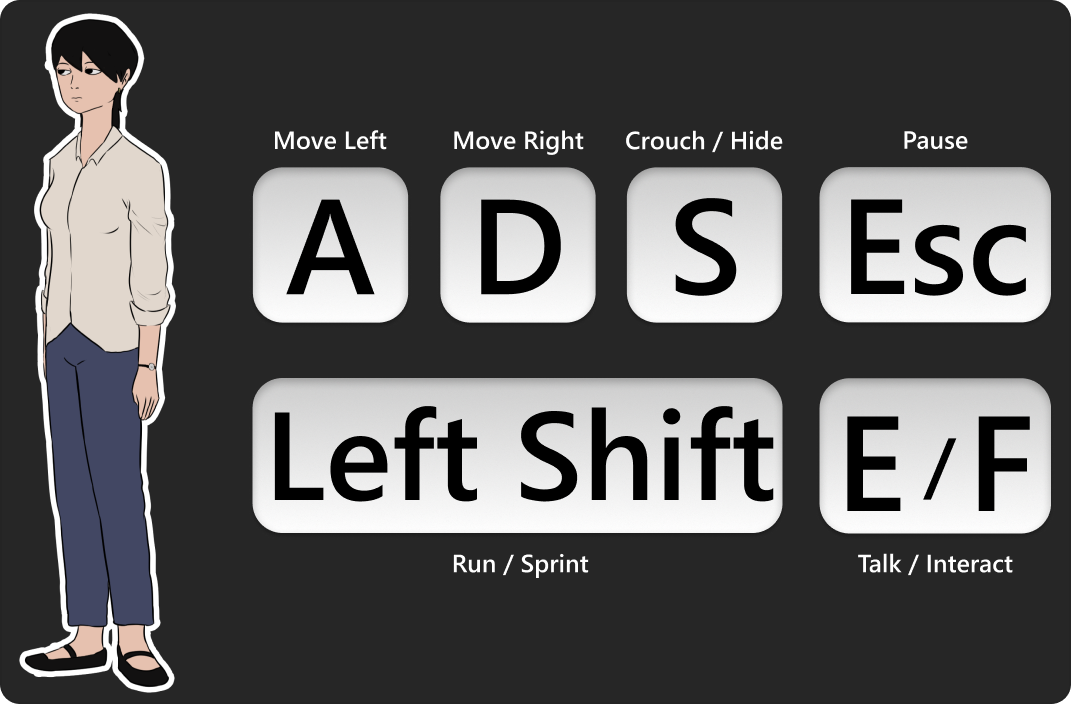
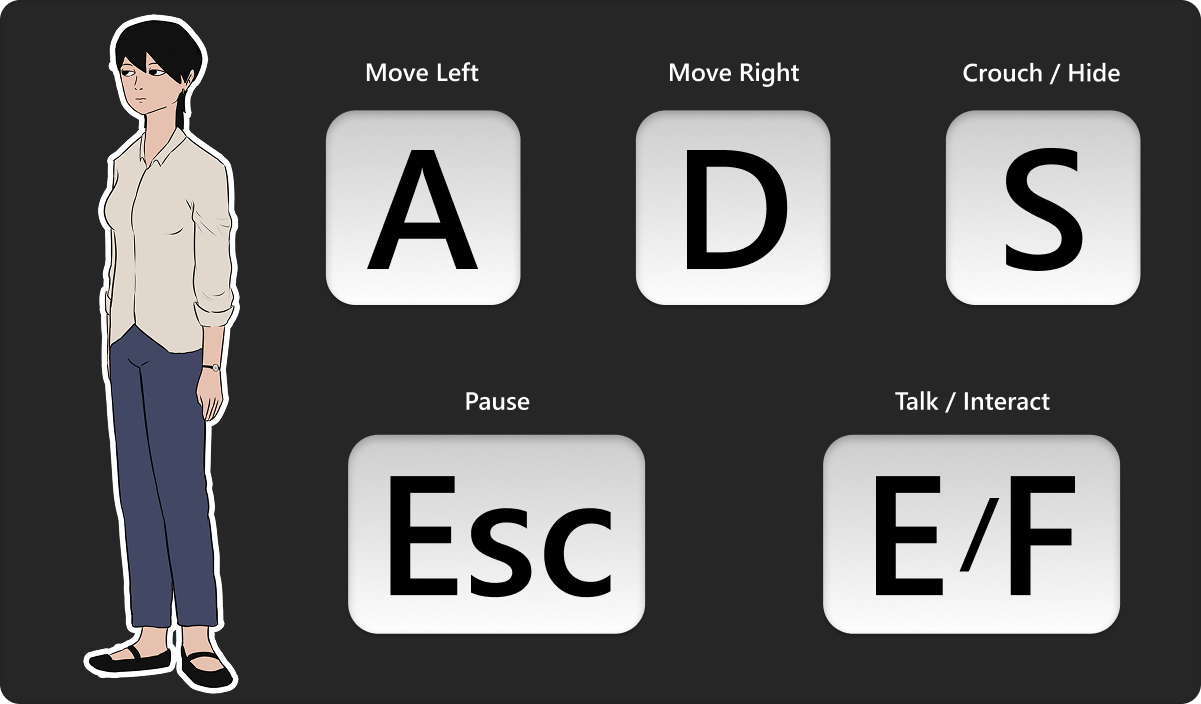
Controls Panel Fixed

diff --git a/Hushed/Assets/Scripts/UI Scripts/SlidePanel.cs b/Hushed/Assets/Scripts/UI Scripts/SlidePanel.cs
@@ -1,0 +1,67 @@
+using UnityEngine;
+using DG.Tweening;
+
+public class SlidePanel : MonoBehaviour
+{
+    [Header("Main Panel Settings")]
+    public CanvasGroup panel;          // The panel to open/close
+    public RectTransform panelRect;    // The panel's RectTransform
+    public float slideDistance = 30f;  // How far it slides
+    public float animationDuration = 0.2f;
+
+    [Header("Optional Panel to Disable")]
+    public GameObject panelToDisable;  // Another panel to disable when opening this one
+
+    private bool isOpen = false;
+    private Vector2 originalPosition;
+
+    void Start()
+    {
+        // Save the starting position of the panel
+        originalPosition = panelRect.anchoredPosition;
+
+        // Start hidden
+        panel.alpha = 0f;
+        panel.interactable = false;
+        panel.blocksRaycasts = false;
+        panelRect.anchoredPosition = originalPosition - new Vector2(0, slideDistance);
+    }
+
+    public void TogglePanel()
+    {
+        if (isOpen)
+            ClosePanel();
+        else
+            OpenPanel();
+    }
+
+    public void OpenPanel()
+    {
+        isOpen = true;
+        panel.DOKill(); // stop any ongoing tweens
+
+        // Disable another panel if assigned
+        if (panelToDisable != null)
+            panelToDisable.SetActive(false);
+
+        panel.interactable = true;
+        panel.blocksRaycasts = true;
+
+        // Slide up + fade in
+        panelRect.DOAnchorPos(originalPosition, animationDuration).SetEase(Ease.OutQuad);
+        panel.DOFade(1f, animationDuration);
+    }
+
+    public void ClosePanel()
+    {
+        isOpen = false;
+        panel.DOKill();
+
+        panel.interactable = false;
+        panel.blocksRaycasts = false;
+
+        // Slide down + fade out
+        panelRect.DOAnchorPos(originalPosition - new Vector2(0, slideDistance), animationDuration).SetEase(Ease.InQuad);
+        panel.DOFade(0f, animationDuration);
+    }
+}

diff --git a/Hushed/Assets/Scripts/UI Scripts/BackButtonEnable.cs b/Hushed/Assets/Scripts/UI Scripts/BackButtonEnable.cs
@@ -1,0 +1,18 @@
+using System.Collections;
+using System.Collections.Generic;
+using UnityEngine;
+
+public class BackButtonEnable : MonoBehaviour
+{
+    public GameObject panelToDisable;
+    public GameObject panelToEnable;
+
+    public void Switch()
+    {
+        if (panelToDisable != null)
+            panelToDisable.SetActive(false);
+
+        if (panelToEnable != null)
+            panelToEnable.SetActive(true);
+    }
+}

diff --git a/Hushed/Assets/Scripts/UI Scripts/PanelManager.cs b/Hushed/Assets/Scripts/UI Scripts/PanelManager.cs
@@ -18,8 +18,8 @@ public class PanelManager : MonoBehaviour
     public ButtonGroupManager buttonGroupManager;
 
     [Header("Animation Settings")]
-    public float slideDistance = 300f;
-    public float animationDuration = 0.3f;
+    public float slideDistance = 30f;
+    public float animationDuration = 0.2f;
 
     private RectTransform currentPanel;
     private bool isAnimating = false;
